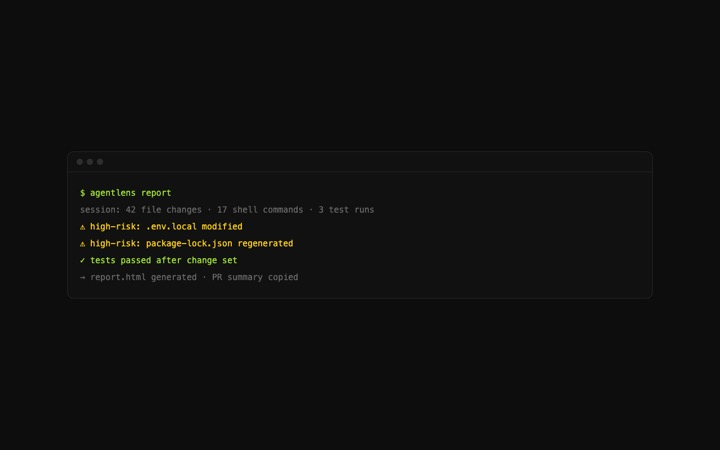
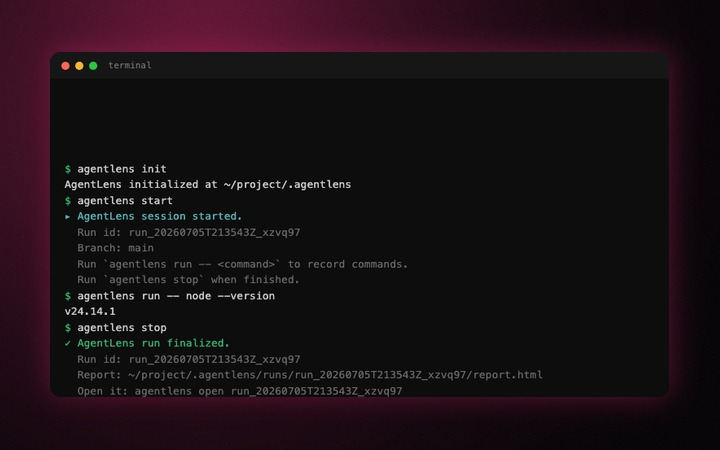
fix: allow Spotify album art through CSP, restyle CLI project thumbnails
img-src was missing i.scdn.co, silently blocking the now-playing album art.
AgentLens/shiplog thumbs were sparse placeholder mockups; replaced with real
frames from each repo's demo.gif, composited on a pink-glow background to
match rewind's treatment.

diff --git a/next.config.ts b/next.config.ts
@@ -10,12 +10,13 @@ import type { NextConfig } from "next";
 //  - connect-src: client-side fetches go to GitHub (stars) and counterapi
 //    (visitors); Vercel Analytics + the Spotify proxy are same-origin ('self').
 //    Spotify's own API is only ever called server-side, so it is absent here.
-//  - img-src data:/blob: covers next/image and canvas-derived pixels.
+//  - img-src data:/blob: covers next/image and canvas-derived pixels;
+//    i.scdn.co is Spotify's album art CDN, fetched client-side by SpotifyCard.
 const csp = [
   "default-src 'self'",
   "script-src 'self' 'unsafe-inline'",
   "style-src 'self' 'unsafe-inline'",
-  "img-src 'self' data: blob:",
+  "img-src 'self' data: blob: https://i.scdn.co",
   "font-src 'self'",
   "connect-src 'self' https://api.github.com https://api.counterapi.dev",
   "frame-ancestors 'none'",
